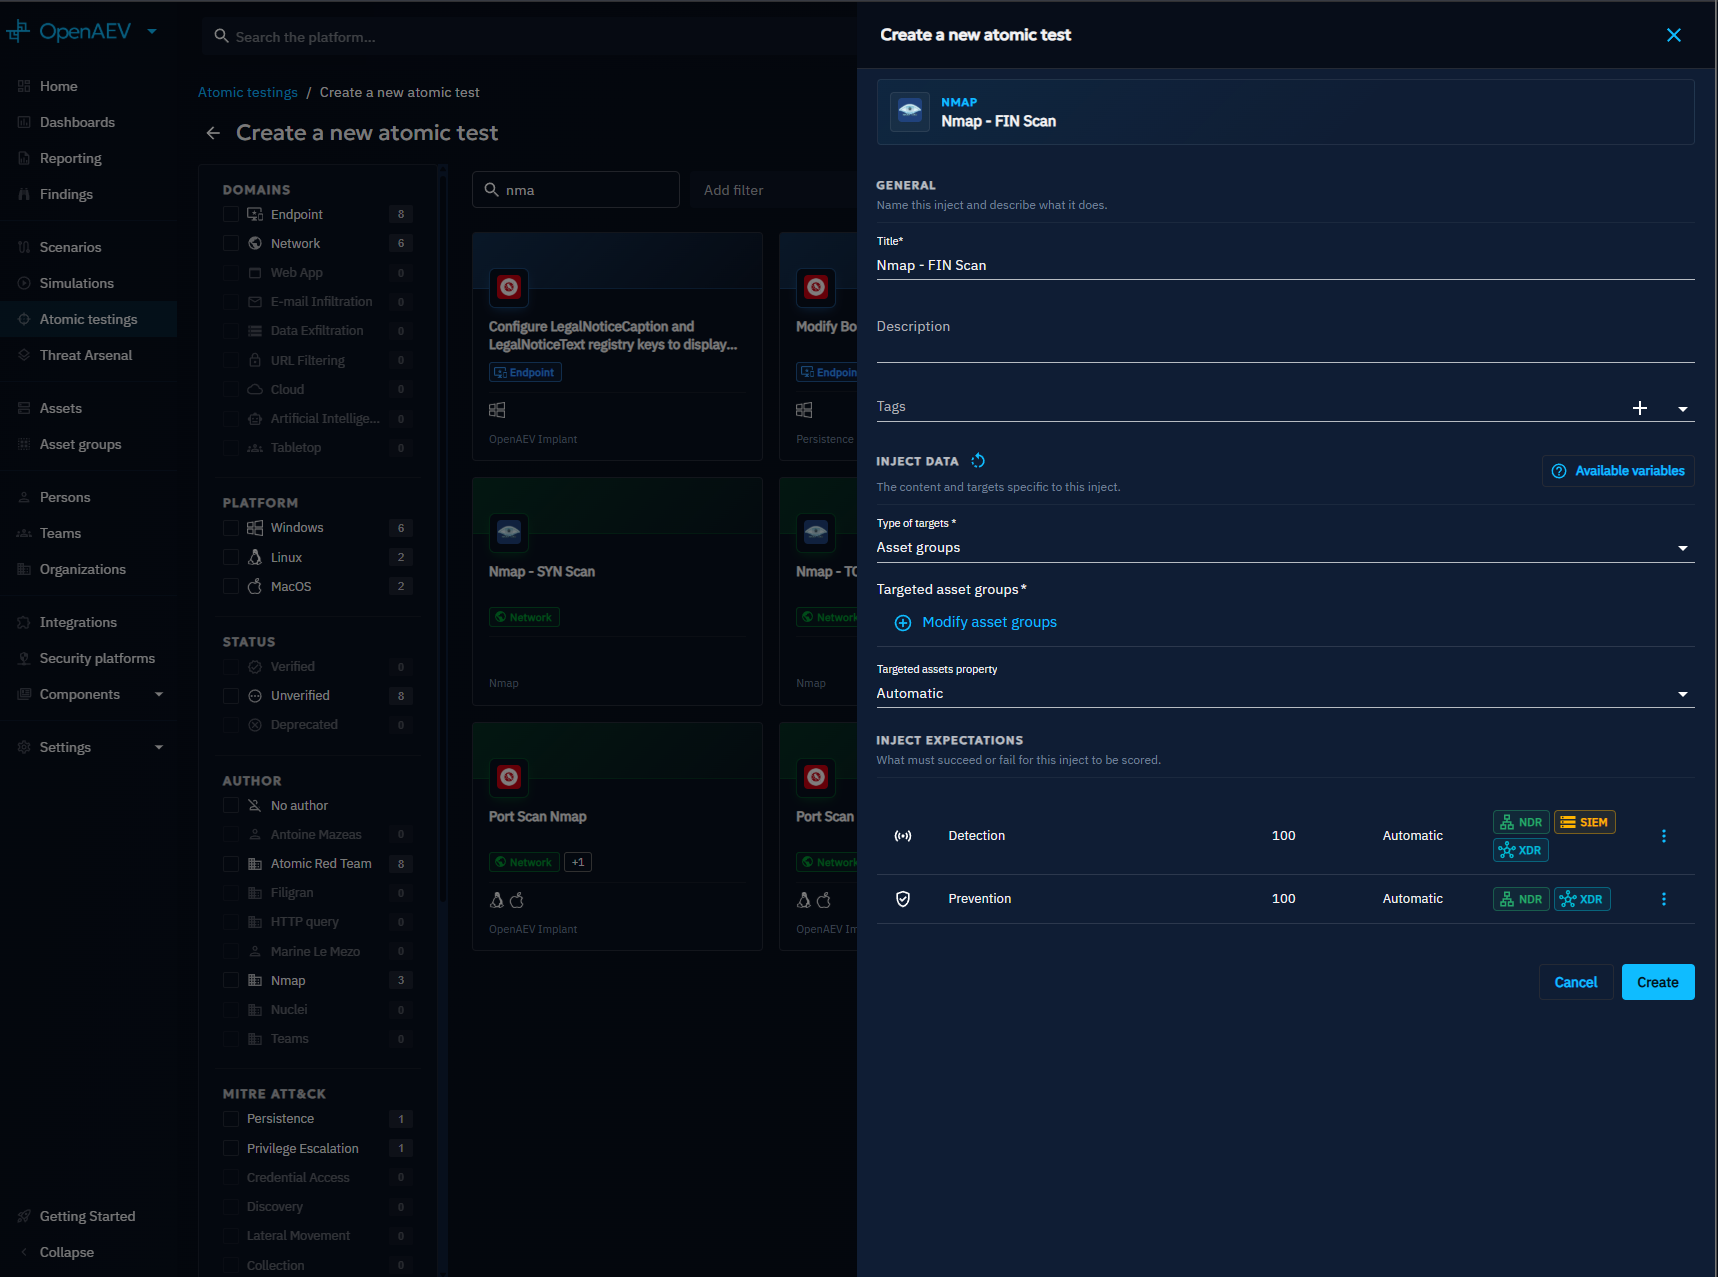
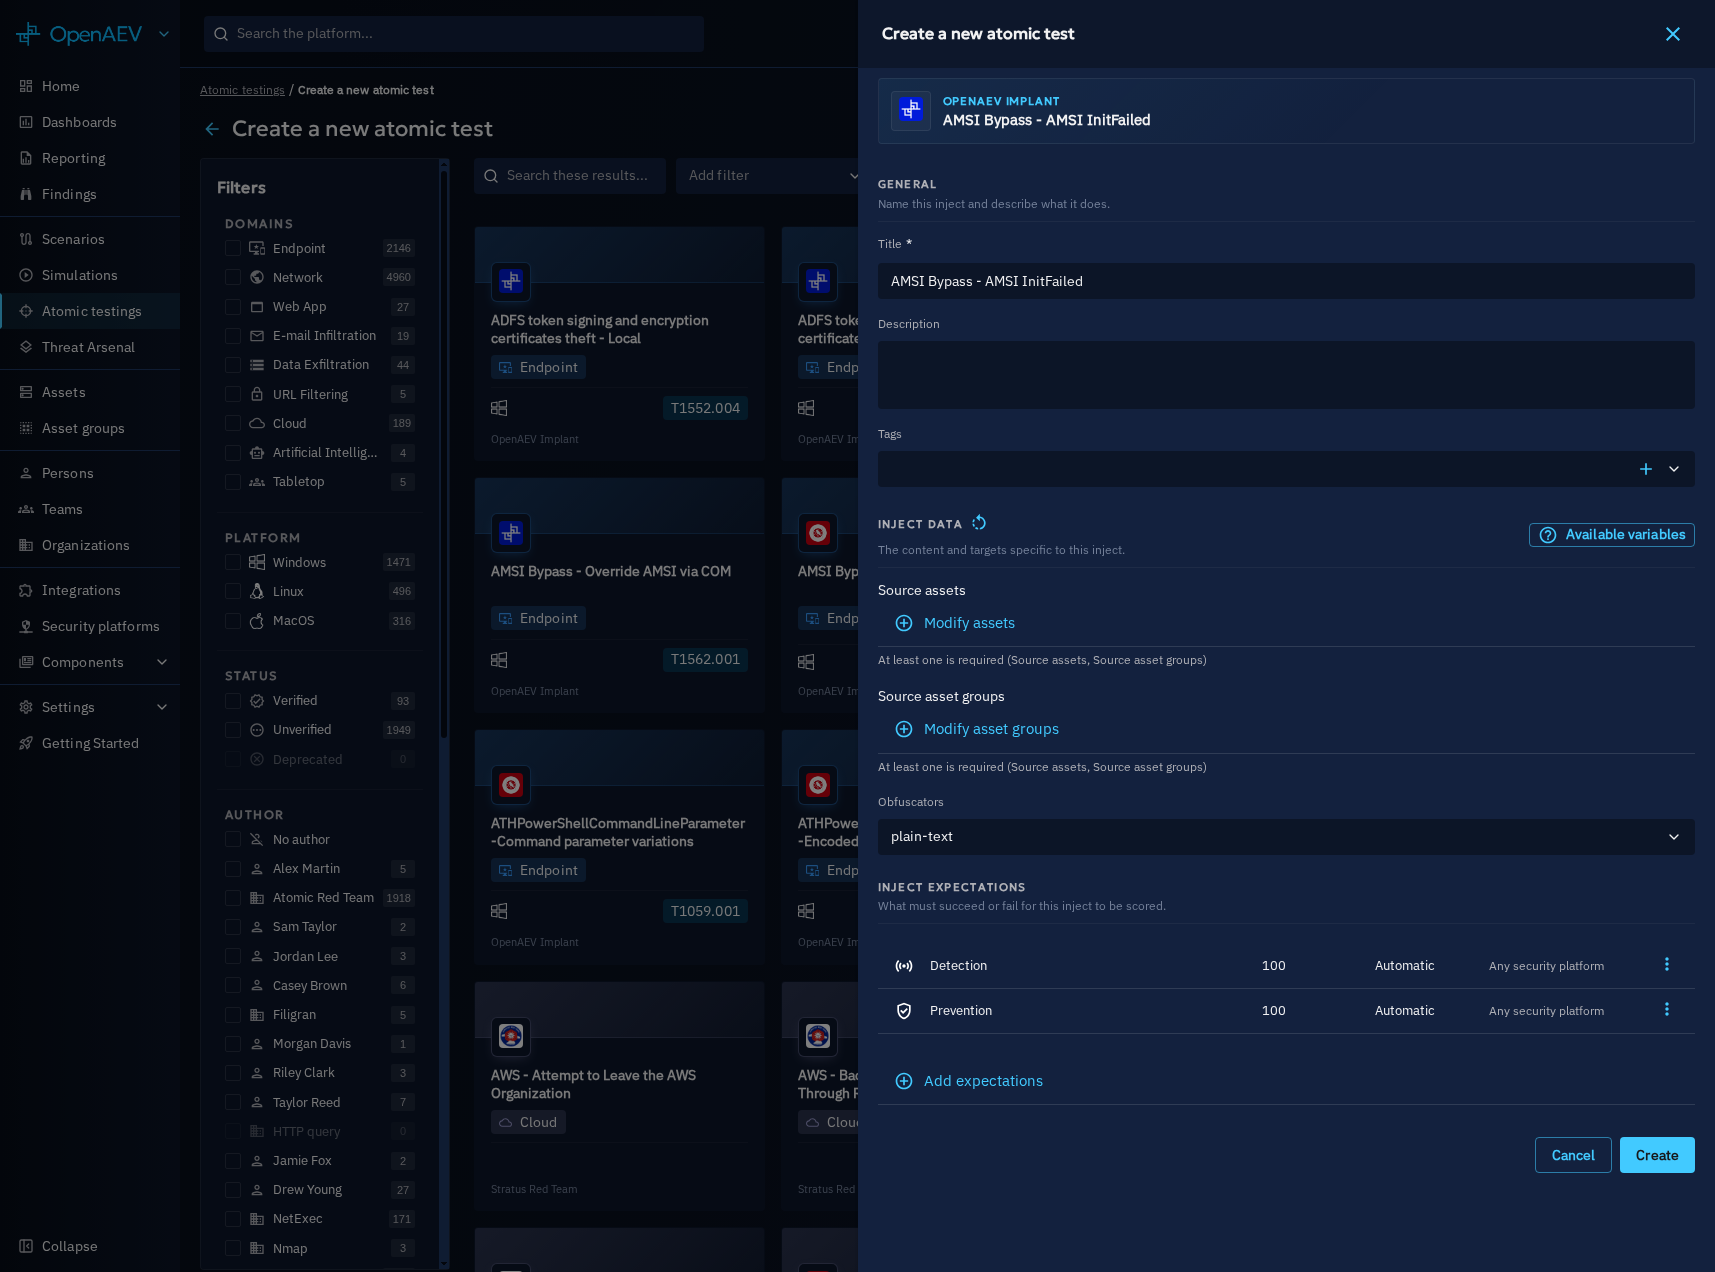
docs: fix documentation gaps
docs/docs/reference/deployment/configuration.md
docs/docs/usage/attack-chaining/autonomous/overview.md
docs/docs/deployment/integration-manager/quick-start.md
docs/docs/usage/run-and-evaluate/atomic-testing/atomic-testing.md
docs/docs/usage/run-and-evaluate/atomic-testing/assets/atomic-testing-create-select.png
docs/docs/usage/run-and-evaluate/atomic-testing/assets/atomic-testing-create-form.png

Generated-by: [OpenAEV] Doc maintainer agent

diff --git a/docs/docs/reference/deployment/configuration.md b/docs/docs/reference/deployment/configuration.md
@@ -176,6 +176,22 @@ The value in force is resolved in this order:
 | agent_queue_threshold              | openaev.agent.queue-threshold                | OPENAEV_AGENT_QUEUE_THRESHOLD                | 0       | 0 to 10000  | Pending jobs after which an agent is overloaded and skipped by new injects. `0` disables the check. |
 | agent_auto_update_enabled          | executor.openaev.agent.auto-update-enabled   | EXECUTOR_OPENAEV_AGENT_AUTO_UPDATE_ENABLED   | true    | true, false | When `false`, agents are not upgraded when a new platform version is deployed. Enterprise Edition only. |
 
+#### Expectations expiration manager
+
+The expectations expiration manager is a built-in collector. At a fixed interval, it sets the result of the expectations whose expiration time has passed and that no Collector or security platform filled.
+
+| Parameter                                         | Environment variable                              | Default value | Description |
+|:--------------------------------------------------|:--------------------------------------------------|:--------------|:------------|
+| collector.expectations-expiration-manager.enable     | COLLECTOR_EXPECTATIONS-EXPIRATION-MANAGER_ENABLE     | `true`        | Enables the expectations expiration manager. |
+| collector.expectations-expiration-manager.interval   | COLLECTOR_EXPECTATIONS-EXPIRATION-MANAGER_INTERVAL   | 60            | Interval in seconds between two runs. The first run starts 30 seconds after startup. |
+| collector.expectations-expiration-manager.batch-size | COLLECTOR_EXPECTATIONS-EXPIRATION-MANAGER_BATCH-SIZE | 1000          | Maximum number of expectations expired per run and per tenant. |
+
+#### Attack chaining
+
+| Parameter                        | Environment variable             | Default value | Description |
+|:---------------------------------|:---------------------------------|:--------------|:------------|
+| openaev.chaining.max-retry-count | OPENAEV_CHAINING_MAX-RETRY-COUNT | 5             | Maximum number of times a chaining event is re-queued after a failed transaction. Past this number, the event is not re-queued again. |
+
 {% if feature_visible("CREDENTIAL_ASSET") %}
 #### Credential status validation
 
@@ -299,6 +315,20 @@ Tuning parameters applicable to both engines:
 | engine.indexing-misfire-threshold-ms     | ENGINE_INDEXING_MISFIRE_THRESHOLD_MS     | 120000        | Threshold in milliseconds after which a model synchronisation is declared misfired and is rescheduled.                                                                                                                                                             |
 | engine.indexing-reset-epoch-reassert-delay-seconds | ENGINE_INDEXING_RESET_EPOCH_REASSERT_DELAY_SECONDS | 180 | Delay in seconds after which an instance that reset an index during a rolling deploy re-asserts the indexing cursor of that model, so a stale cursor written by an instance still running an older version does not skip rows. Must exceed the longest indexing round. Set to `0` to disable once every instance runs OpenAEV 3.261001.0 or later. |
 | engine.indexing-refeed-reassert-delay-seconds | ENGINE_INDEXING_REFEED_REASSERT_DELAY_SECONDS | 1800 | Delay in seconds after which the instance that applied an upgrade re-feeding an index in place (for example the findings index, to mask the sensitive values indexed before) re-feeds it a second time. During a rolling deploy, instances still running the previous version take part in the first re-feed and write their own documents, such as finding values in cleartext; the second re-feed rewrites them. Set it longer than your longest rolling deploy plus one indexing round (15 seconds). Set to `0` to skip the second re-feed, which is safe when a single instance runs. |
+| engine.connect-timeout-ms                | ENGINE_CONNECT_TIMEOUT_MS                | 5000          | Connect timeout of the engine client, in milliseconds. |
+| engine.socket-timeout-ms                 | ENGINE_SOCKET_TIMEOUT_MS                 | 60000         | Socket (response) timeout of the engine client, in milliseconds. |
+| engine.max-connections                   | ENGINE_MAX_CONNECTIONS                   | 40            | Maximum number of concurrent connections of the engine client. Applied to both the per-route and the total limit. |
+| engine.reject-unauthorized               | ENGINE_REJECT_UNAUTHORIZED               | `true`        | Verify the TLS certificate of the engine. Set to `false` to trust any certificate, for example a self-signed one. |
+| engine.indexing-batch-size               | ENGINE_INDEXING_BATCH_SIZE               | 500           | Maximum number of records fetched per indexing batch. |
+| engine.indexing-max-concurrent-models    | ENGINE_INDEXING_MAX_CONCURRENT_MODELS    | 3             | Maximum number of models whose indexing runs at the same time. Each indexing round holds a database connection, so a higher value uses more of the connection pool. Values below `1` are treated as `1`. |
+| engine.index-suffix                      | ENGINE_INDEX_SUFFIX                      | -000001       | Suffix of the first index of each rollover alias. |
+| engine.number-of-shards                  | ENGINE_NUMBER_OF_SHARDS                  | 1             | Number of primary shards of each index. Applied when an index is created. |
+| engine.number-of-replicas                | ENGINE_NUMBER_OF_REPLICAS                | 1             | Number of replica shards of each index. Applied when an index is created. |
+| engine.max-result-window                 | ENGINE_MAX_RESULT_WINDOW                 | 100000        | `max_result_window` setting of each index (maximum depth of pagination). Applied when an index is created. |
+| engine.max-fields-size                   | ENGINE_MAX_FIELDS_SIZE                   | 4096          | Maximum number of fields of an index mapping (`mapping.total_fields.limit`). Applied when an index is created. |
+| engine.max-primary-shard-docs            | ENGINE_MAX_PRIMARY_SHARD_DOCS            | 75000000      | Rollover condition of the index lifecycle policy: maximum number of documents in a primary shard. |
+| engine.max-primary-shards-size           | ENGINE_MAX_PRIMARY_SHARDS_SIZE           | 50Gb          | Rollover condition of the index lifecycle policy: maximum size of a primary shard. |
+| engine.search-cap                        | ENGINE_SEARCH_CAP                        | 500           | Maximum number of results a search across the platform indices returns. |
 
 !!! note "Re-feed of the Findings index after an upgrade"
 
@@ -338,6 +368,26 @@ Tuning parameters applicable to both engines:
 | openaev.rabbitmq.trust-store          | OPENAEV_RABBITMQ_TRUST_STORE          |                                   | Path to the p12 trust store (for example `file:/path/to/truststore.p12`) with the CA of the RabbitMQ server certificate. Used when SSL is on. When empty, the platform trust store applies: the JVM default trust store plus the certificates of `openaev.extra-trusted-certs-dir`. Applies to the AMQP connection. The calls to the management plugin trust this store and the platform trust store. |
 | openaev.rabbitmq.trust-store-password | OPENAEV_RABBITMQ_TRUST-STORE-PASSWORD |                                   | Password of the keystore                                                                                                                                                          |
 | openaev.rabbitmq.publish-timeout-ms   | OPENAEV_RABBITMQ_PUBLISH-TIMEOUT-MS   | 30000                             | Hard cap in milliseconds on a single publish, so a broker that stops answering cannot hold a database transaction open. Must be strictly positive, otherwise the default applies.  |
+
+##### Queue tuning
+
+Three batch queues can be tuned with `openaev.queue-config.<queue>.<parameter>` properties, set for example in `application.properties`:
+
+- `inject-trace`: execution traces reported for Injects.
+- `workflows-ready` and `workflows-update`: events of the attack chaining engine.
+
+| Parameter        | `inject-trace` default | `workflows-ready` default | `workflows-update` default | Description |
+|:-----------------|:-----------------------|:--------------------------|:---------------------------|:------------|
+| publisher-number | 2                      | 1                         | 1                          | Number of publisher channels. |
+| consumer-number  | 8                      | 1                         | 1                          | Number of consumer channels. |
+| worker-number    | 8                      | 1                         | 1                          | Number of worker threads that process the batches. Messages are spread over the workers by key. |
+| worker-frequency | 10000                  | 10000                     | 10000                      | Interval in milliseconds at which batches that did not reach `max-size` are processed. |
+| queue-name       | inject-trace           | workflows-ready           | workflows-update           | Name of the queue, exchange and routing key, prefixed with `openaev.rabbitmq.prefix`. |
+| max-size         | 200                    | 200                       | 200                        | Number of buffered messages per worker above which the batch is processed at once. |
+| consumer-qos     | 1000                   | 1000                      | 1000                       | Prefetch count of each consumer channel (`basic.qos`). |
+| publisher-qos    | 0                      | 0                         | 0                          | Prefetch count set on each publisher channel (`basic.qos`). |
+
+For example, `openaev.queue-config.inject-trace.worker-number=16` doubles the inject trace workers.
 
 #### S3 bucket
 

diff --git a/docs/docs/usage/run-and-evaluate/atomic-testing/atomic-testing.md b/docs/docs/usage/run-and-evaluate/atomic-testing/atomic-testing.md
@@ -18,13 +18,16 @@ Use the search bar and filters to narrow results.
 
 ## Create an Atomic Test
 
-1. Click the **+** button at the bottom right of the screen.
-2. On the left panel, browse the list of available Threat Arsenal Actions. Filter by kill chain phase, Injector, compatible platform, or MITRE ATT&CK tactic. Click the **ATT&CK** icon near the search bar to filter by a specific technique.
-3. Select an Action. The form on the right populates with a default title and a delay field (set to 0 for immediate execution).
+1. Click the **Create** button at the top right of the Atomic testing list. The **Create a new atomic test** page opens.
+2. Browse the Threat Arsenal Actions, shown as cards. Use the search bar, or the **Filters** panel on the left to narrow them by domain, platform, status, author, MITRE ATT&CK tactic or MITRE ATLAS tactic.
+3. Click an Action card. The **Create a new atomic test** drawer opens.
 
 ![Select a Threat Arsenal Action](assets/atomic-testing-create-select.png)
 
-4. Click **Inject content** to define the targeted Assets or Players, required configuration, and Expectations.
+4. Fill in the drawer:
+    - **General**: title (prefilled with the Action name), description and tags.
+    - **Inject data**: the targets of the Action (for example Assets or Asset groups) and the configuration it requires.
+    - **Inject expectations**: the Expectations used to score the test.
 
 ![Configure Inject content](assets/atomic-testing-create-form.png)
 

diff --git a/docs/docs/deployment/integration-manager/quick-start.md b/docs/docs/deployment/integration-manager/quick-start.md
@@ -51,6 +51,7 @@ Set configuration through environment variables:
 export COMPOSER_ENV=production
 export MANAGER__ID="my-manager-001"
 export MANAGER__CREDENTIALS_KEY_FILEPATH="/path/to/private_key_4096.pem"
+export OPENAEV__ENABLE=true
 export OPENAEV__URL="https://openaev.example.com"
 export OPENAEV__TOKEN="your-openaev-api-token"
 export OPENAEV__DAEMON__SELECTOR="kubernetes"
